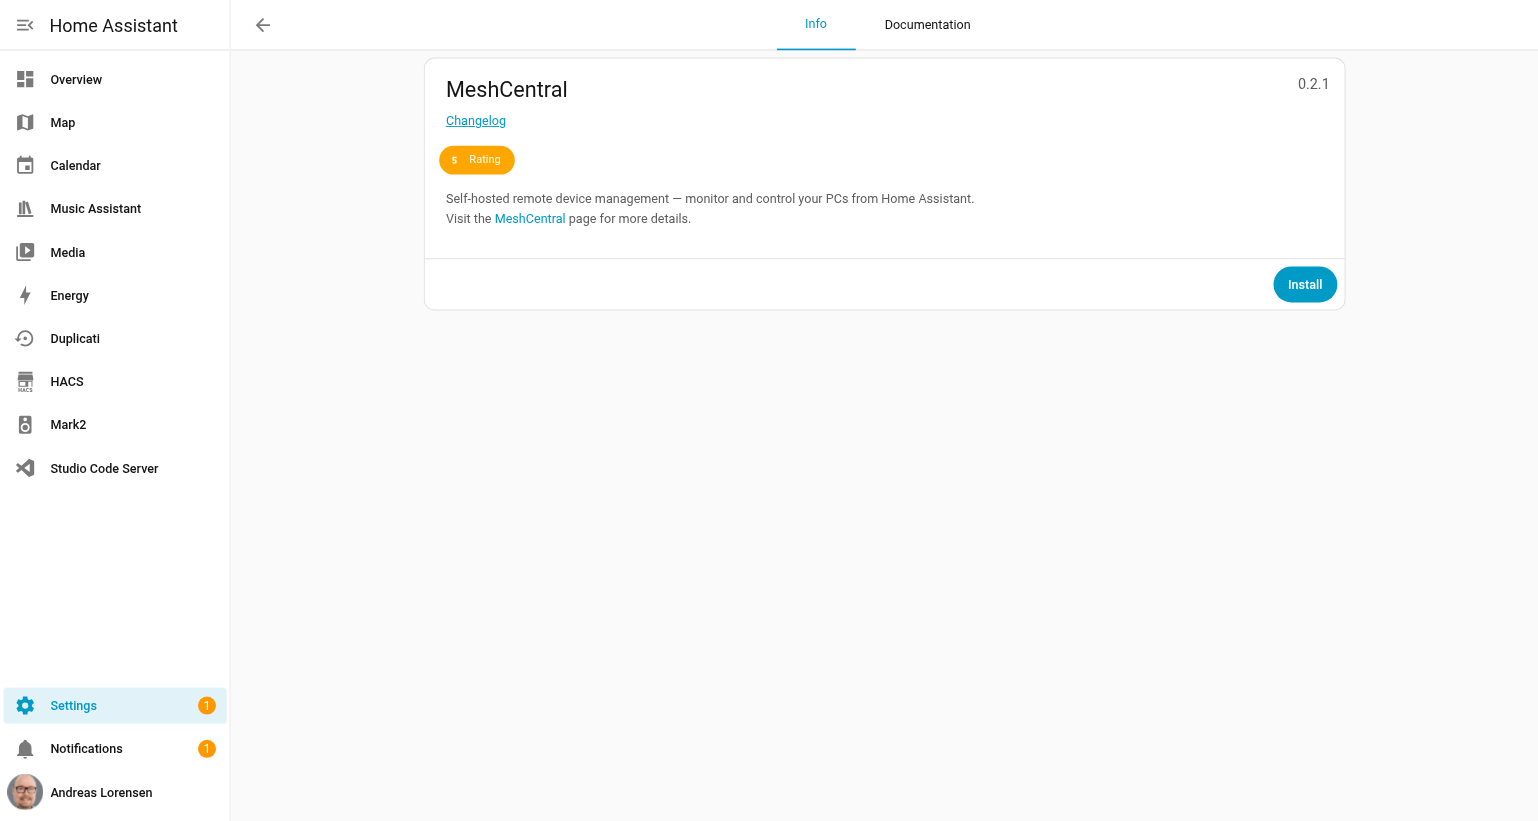
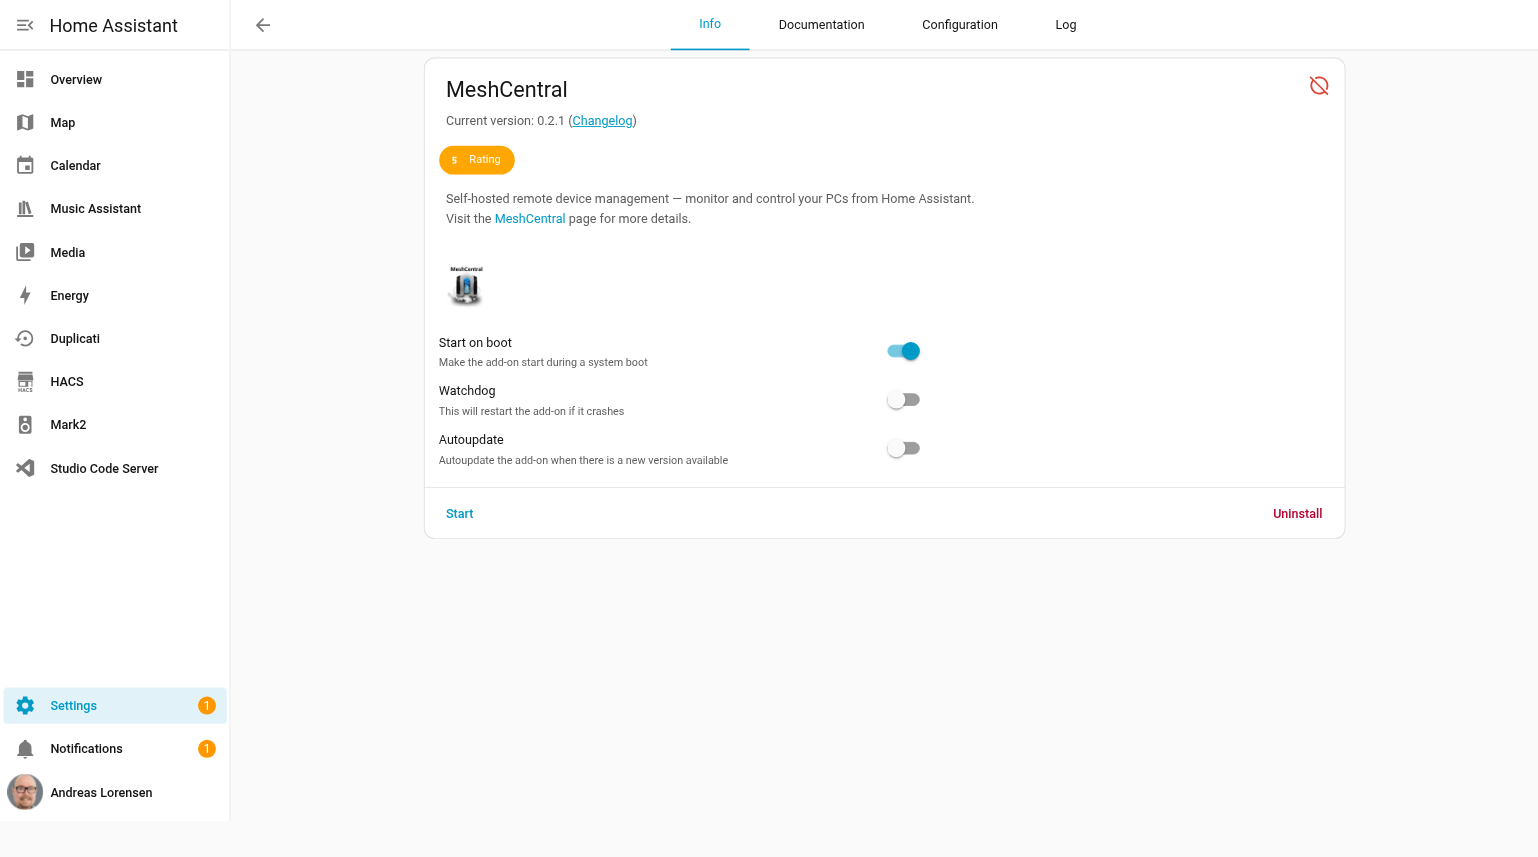
docs: update screenshots with installed addon
- addon-info.png: now shows installed state with icon, Start/Uninstall
- addon-configuration.png: shows the full configuration UI with all options
  (server_mode dropdown, new_accounts toggle, domain_title, session_time,
  tls_offload, web_rtc, compression, self_update toggles)
- addon-configuration-top.png: same, kept as extra reference
- README: now shows both info and configuration screenshots after quick start

diff --git a/README.md b/README.md
@@ -34,7 +34,9 @@ This is all you need to get up and running on your local network:
 
 That's it. No JSON editing required.
 
-![MeshCentral add-on info page](screenshots/addon-info.png)
+![MeshCentral add-on installed — info page with icon and controls](screenshots/addon-info.png)
+
+![MeshCentral add-on configuration — all settings available in the HA UI](screenshots/addon-configuration.png)
 
 ## External access
 
